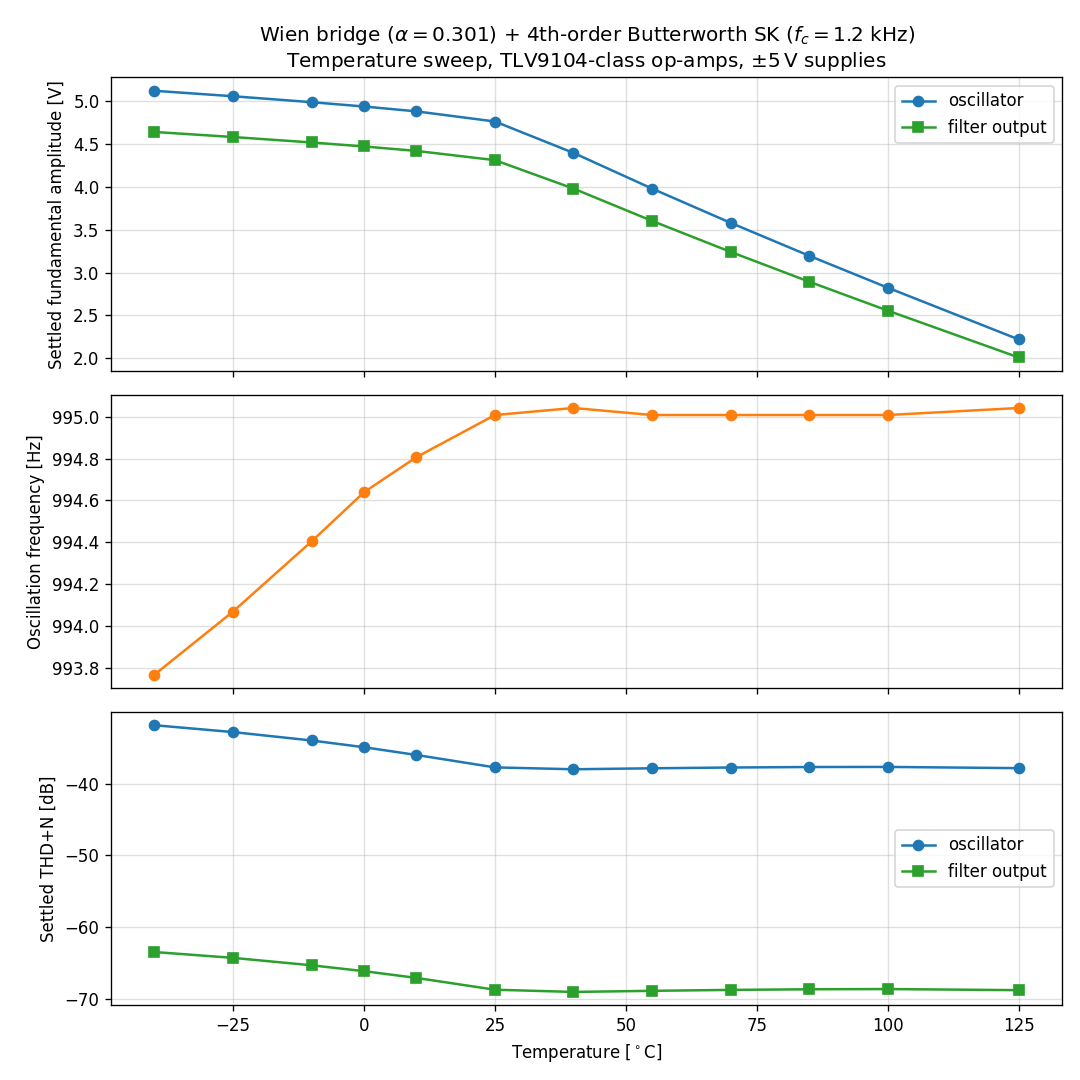
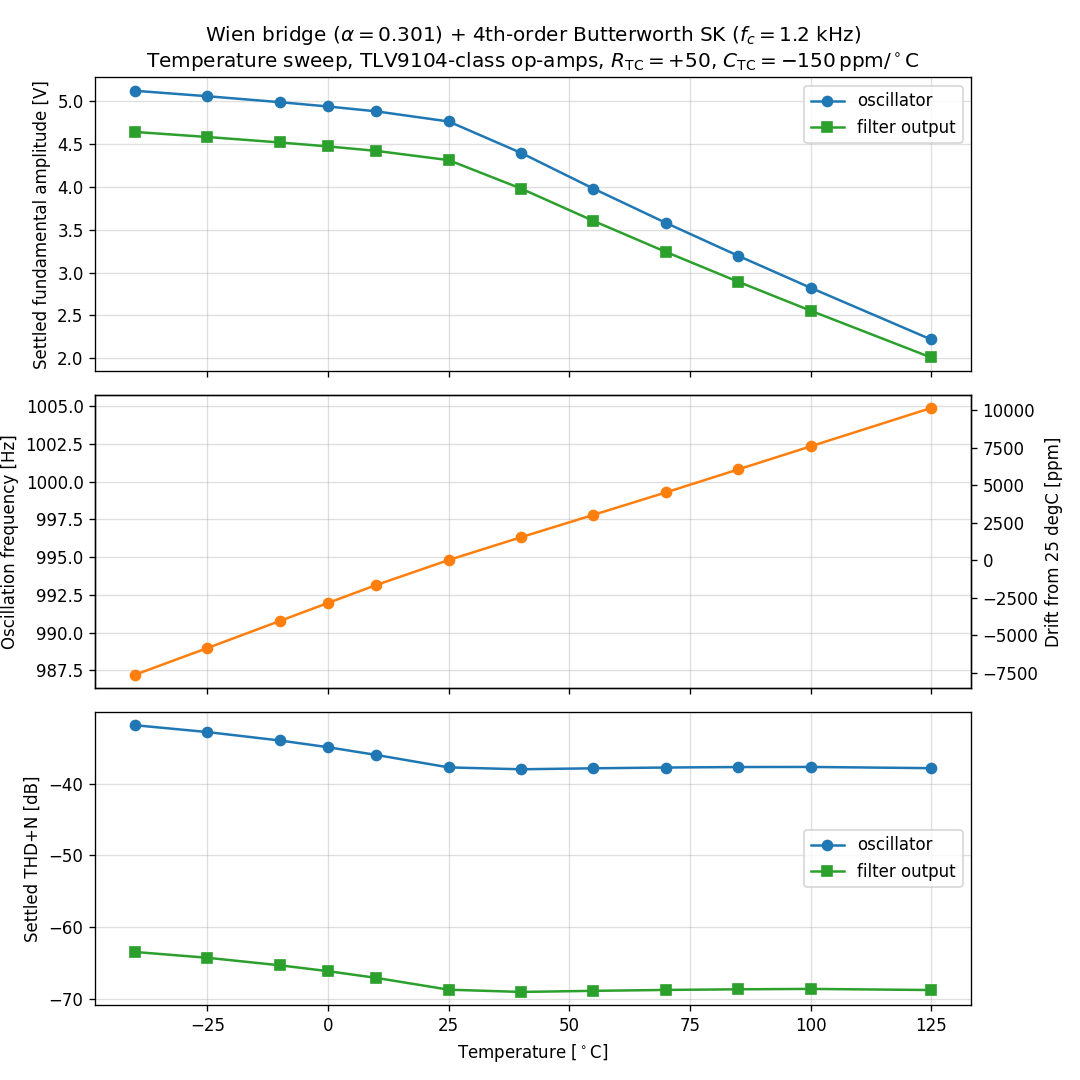
Add realistic R/C temperature coefficients to T sweep
Before: all R, C used ngspice defaults (TC = 0). Frequency drifted
only ~7 ppm/degC from BJT junction caps and op-amp internal effects.

Now: --tc selects between "ideal" (zero TC, the old behaviour) and
"realistic" (default): R = +50 ppm/degC (1% metal film), C = -150
ppm/degC (polypropylene film). Adds tc1=... to every R and C in the
generated netlist.

Frequency TC measured: +107 ppm/degC, matching the analytic
prediction TC_f = -(TC_R + TC_C) = +100 ppm/degC. f0 drifts from
987.2 Hz at -40 C to 1004.9 Hz at +125 C.

Amplitude and THD curves are unchanged within sub-dB because the Wien
transmission is 1/3 at resonance regardless of R, C absolute values.
The +25 degC rail-vs-BJT crossover knee is still there. Frequency
stability and amplitude/THD stability are decoupled in this design.

Plot output filename keys off the preset (wien_temp_sweep.png for the
realistic default; wien_temp_sweep_ideal.png if you re-run --tc ideal).

https://claude.ai/code/session_017NCyg8LM8iXng2MzqG8KFd

diff --git a/ngspice_examples/sweep_temperature.py b/ngspice_examples/sweep_temperature.py
@@ -6,6 +6,15 @@ Circuit configuration is fixed at the THD-minimum / TLV9104 design point:
   - 4th-order Butterworth Sallen-Key at fc = 1.2 kHz
   - TLV9104-class op-amps (Avol=3.16M, GBW=1MHz, Vrail=100mV), +/-5 V
 
+Component temperature coefficients (selected via --tc):
+  - "ideal" (zero TC on R and C): purely shows BJT/op-amp model TCs.
+    Frequency drifts only ~7 ppm/degC (BJT junction caps + op-amp).
+  - "realistic" (default): typical "good audio design" parts.
+       resistors:  TC1 = +50 ppm/degC  (1% metal film, e.g. Vishay CRCW)
+       capacitors: TC1 = -150 ppm/degC (polypropylene film)
+    f0 = 1/(2 pi R C), so TC_f = -(TC_R + TC_C) = +100 ppm/degC.
+    Across -40 to +125 degC -> ~16.5 Hz drift on a 1 kHz f0.
+
 For each temperature in TEMPS, regenerate the netlist with .option temp=T,
 run ngspice, and measure with the lock-in:
   - oscillator output amplitude and THD+N
@@ -35,6 +44,7 @@ THD; or replace the 2N3904 BJTs with Schottky diodes (lower V_F and
 flatter TC).
 """
 from __future__ import annotations
+import argparse
 import shutil
 import subprocess
 from pathlib import Path
@@ -57,32 +67,42 @@ FC = 1200.0
 
 TEMPS = [-40, -25, -10, 0, 10, 25, 40, 55, 70, 85, 100, 125]
 
+# Linear temperature coefficients for R and C elements.
+# Two presets: "ideal" (zero TC) and "realistic" (good audio design).
+TC_PRESETS = {
+    "ideal":     {"R": 0.0,    "C": 0.0},
+    "realistic": {"R": 50e-6,  "C": -150e-6},  # 50 ppm/degC, -150 ppm/degC
+}
 
-def make_netlist(temp_c: float, data_path: Path) -> str:
+
+def make_netlist(temp_c: float, data_path: Path, tc: dict) -> str:
     Q1 = 1.0 / (2 * np.cos(np.pi / 8))
     Q2 = 1.0 / (2 * np.cos(3 * np.pi / 8))
     cb1 = 1.0 / (2 * np.pi * R_FILT * FC * (2 * Q1))
     ca1 = (2 * Q1) ** 2 * cb1
     cb2 = 1.0 / (2 * np.pi * R_FILT * FC * (2 * Q2))
     ca2 = (2 * Q2) ** 2 * cb2
+    rtc = f"tc1={tc['R']:.3e}"
+    ctc = f"tc1={tc['C']:.3e}"
     return f"""* Wien bridge (alpha=0.301) + 4th-order SK Butterworth, T = {temp_c} degC
+* R tc1 = {tc['R']*1e6:.0f} ppm/degC, C tc1 = {tc['C']*1e6:.0f} ppm/degC
 
 .include {(HERE/'uopamp.lib').as_posix()}
 
-R1   out  ns   10k
-C1   ns   np   15.915n  IC=0
-R2   np   0    10k
-C2   np   0    15.915n  IC=10m
+R1   out  ns   10k       {rtc}
+C1   ns   np   15.915n  IC=0  {ctc}
+R2   np   0    10k       {rtc}
+C2   np   0    15.915n  IC=10m  {ctc}
 
-Rg   nn   0    10k
-Rfa  nn   fb   10k
-Rfb  fb   out  12k
+Rg   nn   0    10k       {rtc}
+Rfa  nn   fb   10k       {rtc}
+Rfb  fb   out  12k       {rtc}
 Q1   fb   b1   out  Q2N3904
 Q2   out  b2   fb   Q2N3904
-Rtop1 fb  b1  {RTOP:.6g}
-Rbot1 b1  out {RBOT:.6g}
-Rtop2 out b2  {RTOP:.6g}
-Rbot2 b2  fb  {RBOT:.6g}
+Rtop1 fb  b1  {RTOP:.6g}  {rtc}
+Rbot1 b1  out {RBOT:.6g}  {rtc}
+Rtop2 out b2  {RTOP:.6g}  {rtc}
+Rbot2 b2  fb  {RBOT:.6g}  {rtc}
 
 Vcc  vcc 0  5
 Vee  vee 0 -5
@@ -90,17 +110,17 @@ Vee  vee 0 -5
 XU1  np nn vcc vee out uopamp_lvl2
 +    Avol=3.16meg GBW=1meg Rin=100g Rout=10 Iq=600u Ilimit=1 Vrail=100m Vmax=20
 
-RA1   out  nfa1   {R_FILT:.6g}
-RB1   nfa1 nfb1   {R_FILT:.6g}
-CB1   nfb1 0      {cb1:.6g}    IC=0
-CA1   nfa1 vfilt1 {ca1:.6g}    IC=0
+RA1   out  nfa1   {R_FILT:.6g}  {rtc}
+RB1   nfa1 nfb1   {R_FILT:.6g}  {rtc}
+CB1   nfb1 0      {cb1:.6g}    IC=0  {ctc}
+CA1   nfa1 vfilt1 {ca1:.6g}    IC=0  {ctc}
 XU2  nfb1 vfilt1 vcc vee vfilt1 uopamp_lvl2
 +    Avol=3.16meg GBW=1meg Rin=100g Rout=10 Iq=600u Ilimit=1 Vrail=100m Vmax=20
 
-RA2   vfilt1 nfa2  {R_FILT:.6g}
-RB2   nfa2   nfb2  {R_FILT:.6g}
-CB2   nfb2   0     {cb2:.6g}   IC=0
-CA2   nfa2   vfilt {ca2:.6g}   IC=0
+RA2   vfilt1 nfa2  {R_FILT:.6g}  {rtc}
+RB2   nfa2   nfb2  {R_FILT:.6g}  {rtc}
+CB2   nfb2   0     {cb2:.6g}   IC=0  {ctc}
+CA2   nfa2   vfilt {ca2:.6g}   IC=0  {ctc}
 XU3  nfb2 vfilt vcc vee vfilt uopamp_lvl2
 +    Avol=3.16meg GBW=1meg Rin=100g Rout=10 Iq=600u Ilimit=1 Vrail=100m Vmax=20
 
@@ -147,10 +167,10 @@ def lockin_thd(t_raw, x_raw, t_window=(0.05, 0.085), fs=1_000_000):
     return A1, thd, f0
 
 
-def run_one(temp_c: float):
-    cir = WORK / f"temp_{temp_c:+.0f}.cir"
-    dat = WORK / f"temp_{temp_c:+.0f}.data"
-    cir.write_text(make_netlist(temp_c, dat))
+def run_one(temp_c: float, tc: dict, suffix: str):
+    cir = WORK / f"temp_{suffix}_{temp_c:+.0f}.cir"
+    dat = WORK / f"temp_{suffix}_{temp_c:+.0f}.data"
+    cir.write_text(make_netlist(temp_c, dat, tc))
     subprocess.run(["ngspice", "-b", cir.name], cwd=WORK,
                    check=True, capture_output=True, text=True)
     d = np.loadtxt(dat)
@@ -158,15 +178,24 @@ def run_one(temp_c: float):
 
 
 def main():
+    parser = argparse.ArgumentParser(description=__doc__)
+    parser.add_argument("--tc", choices=TC_PRESETS.keys(), default="realistic",
+                        help="component temperature coefficient preset")
+    args = parser.parse_args()
+    tc = TC_PRESETS[args.tc]
+
     if shutil.which("ngspice") is None:
         raise RuntimeError("ngspice not found")
 
+    print(f"TC preset '{args.tc}': R = {tc['R']*1e6:+.0f} ppm/degC, "
+          f"C = {tc['C']*1e6:+.0f} ppm/degC")
+
     rows = []
     for T in TEMPS:
-        t, vout, vfilt = run_one(T)
+        t, vout, vfilt = run_one(T, tc, args.tc)
         a_osc, thd_osc, f0 = lockin_thd(t, vout)
         a_flt, thd_flt, _ = lockin_thd(t, vfilt)
-        print(f"T={T:+4.0f} degC  f0={f0:7.2f} Hz  "
+        print(f"T={T:+4.0f} degC  f0={f0:8.3f} Hz  "
               f"osc: {a_osc:5.3f} V {20*np.log10(thd_osc):+6.2f} dB  "
               f"filt: {a_flt:5.3f} V {20*np.log10(thd_flt):+6.2f} dB")
         rows.append((T, f0, a_osc, thd_osc, a_flt, thd_flt))
@@ -187,13 +216,20 @@ def main():
     ax_a.set_ylabel("Settled fundamental amplitude [V]")
     ax_a.set_title(
         r"Wien bridge ($\alpha=0.301$) + 4th-order Butterworth SK ($f_c=1.2$ kHz)"
-        "\nTemperature sweep, TLV9104-class op-amps, $\\pm5\\,$V supplies"
+        f"\nTemperature sweep, TLV9104-class op-amps, "
+        f"$R_\\mathrm{{TC}}={tc['R']*1e6:+.0f}$, "
+        f"$C_\\mathrm{{TC}}={tc['C']*1e6:+.0f}\\,$ppm$/^\\circ$C"
     )
     ax_a.grid(True, alpha=0.4)
     ax_a.legend()
 
     ax_f.plot(T, f0, "o-", color="C1")
     ax_f.set_ylabel("Oscillation frequency [Hz]")
+    # Show fractional drift in ppm on a secondary y-axis
+    ax_f2 = ax_f.twinx()
+    f0_25 = np.interp(25.0, T, f0)
+    ax_f2.plot(T, (f0/f0_25 - 1) * 1e6, "o-", color="C1", alpha=0)  # invisible, just to set scale
+    ax_f2.set_ylabel("Drift from 25 degC [ppm]")
     ax_f.grid(True, alpha=0.4)
 
     ax_d.plot(T, thd_osc_db, "o-", color="C0", label="oscillator")
@@ -204,7 +240,8 @@ def main():
     ax_d.legend()
 
     fig.tight_layout()
-    out = HERE / "wien_temp_sweep.png"
+    suffix = "" if args.tc == "realistic" else f"_{args.tc}"
+    out = HERE / f"wien_temp_sweep{suffix}.png"
     fig.savefig(out, dpi=120)
     print(f"\nWrote {out}")
 
@@ -216,7 +253,7 @@ def main():
     print(f"Filter amplitude TC: {slope_flt:+.3f} mV/degC")
     print(f"Frequency TC: {slope_f:+.4f} Hz/degC ({slope_f/f0.mean()*1e6:+.1f} ppm/degC)")
 
-    csv = HERE / "wien_temp_sweep.csv"
+    csv = HERE / f"wien_temp_sweep{suffix}.csv"
     np.savetxt(csv, arr, delimiter=",",
                header="T_C,f0_Hz,amp_osc_V,thd_osc,amp_filt_V,thd_filt",
                comments="")